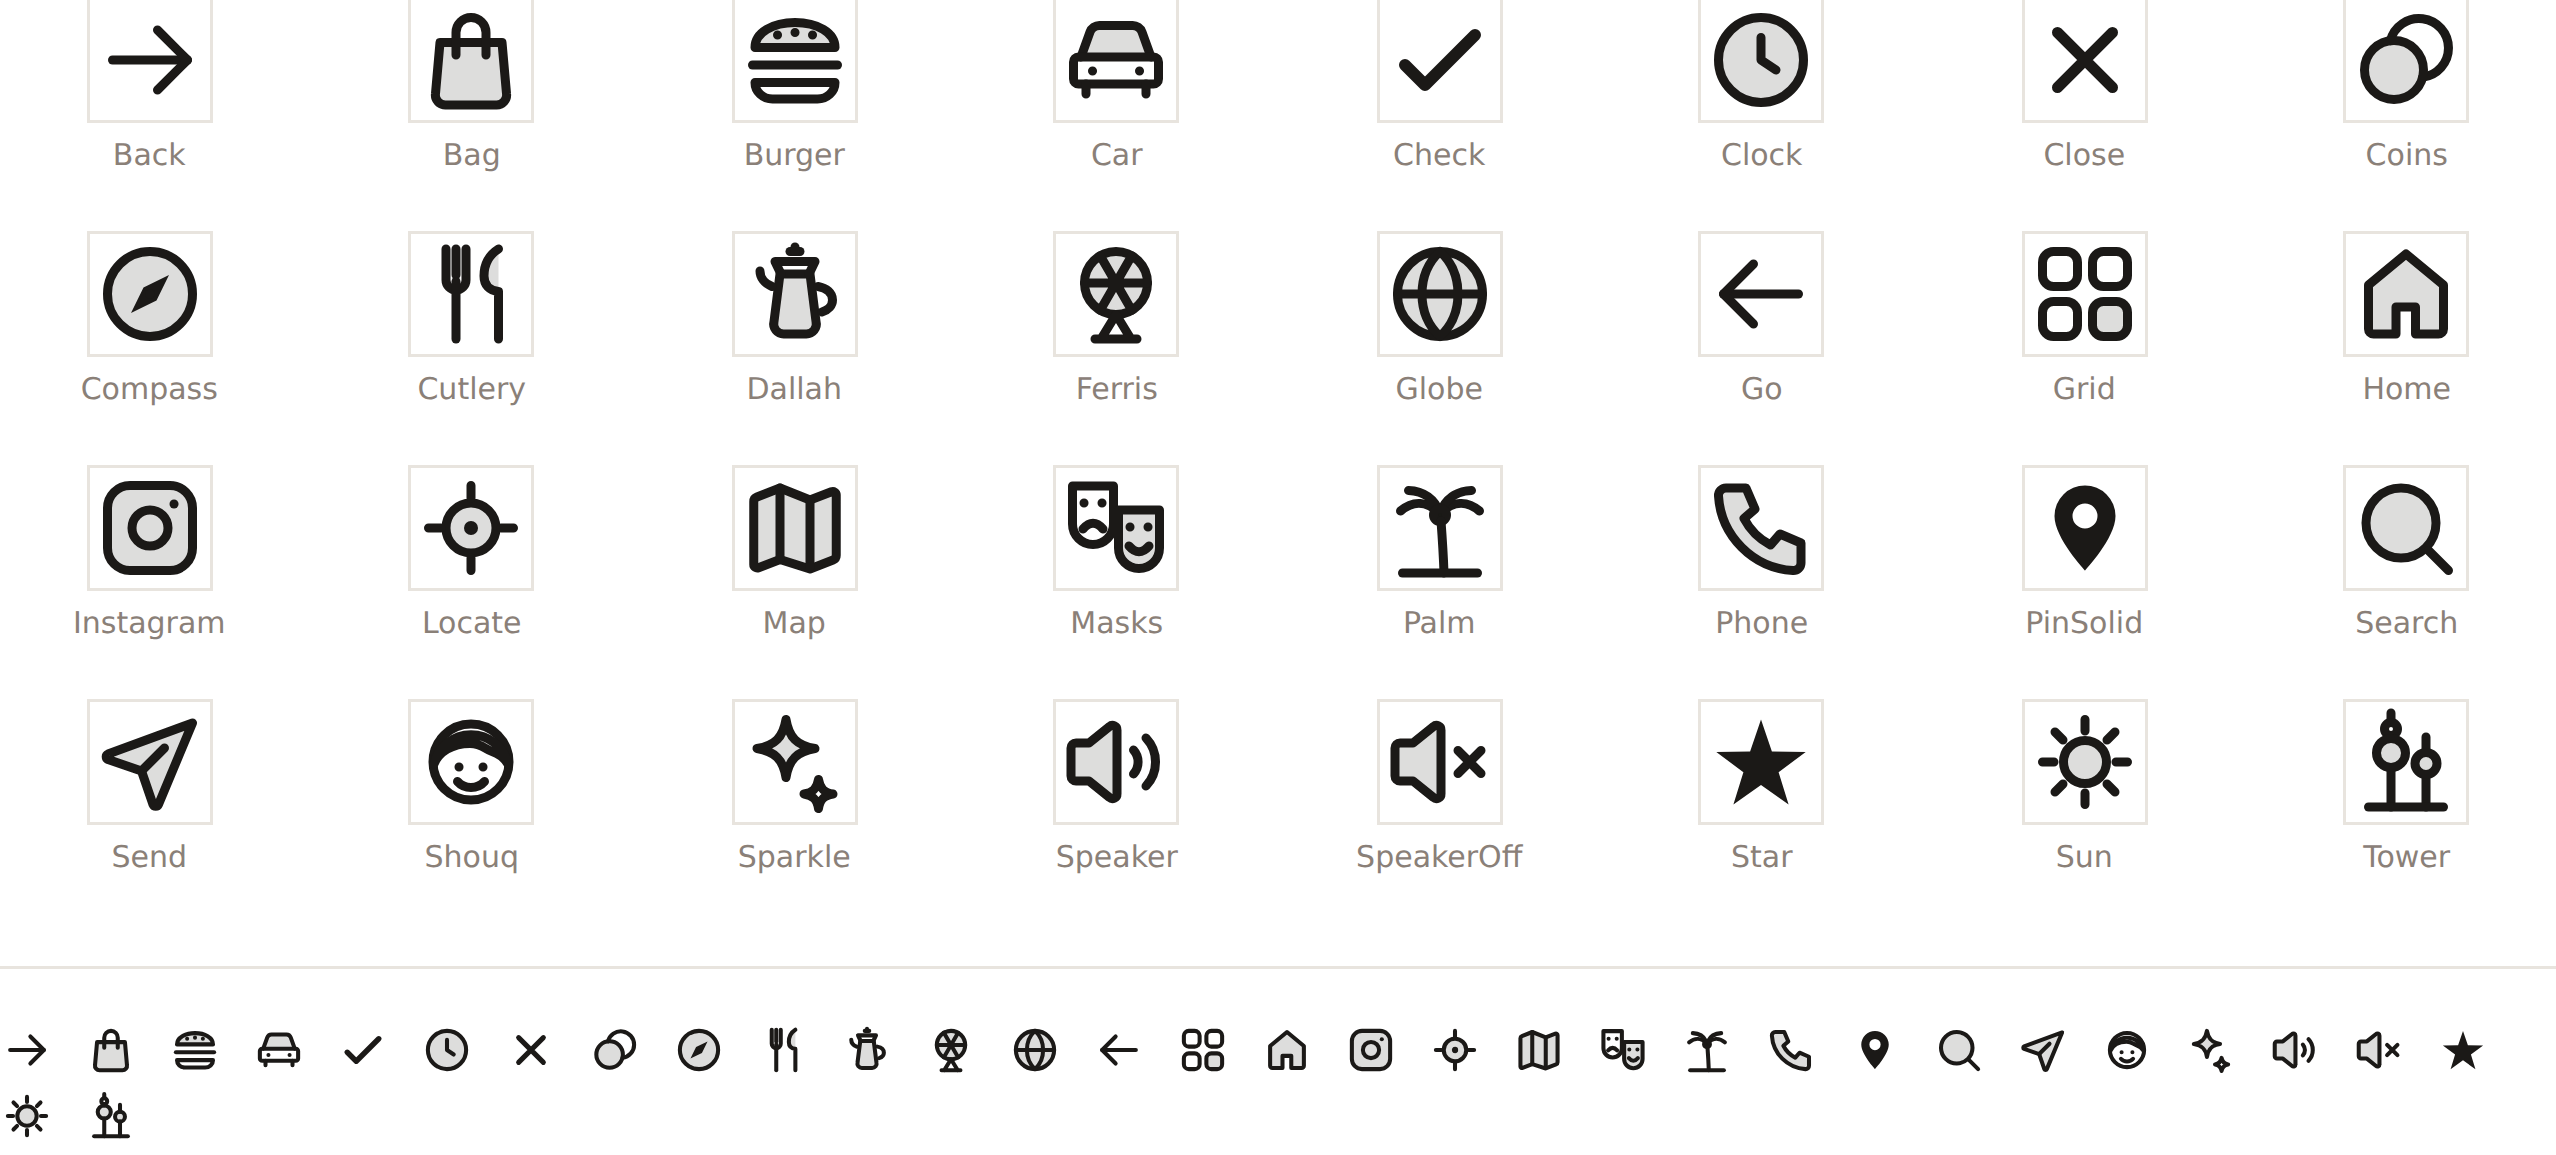
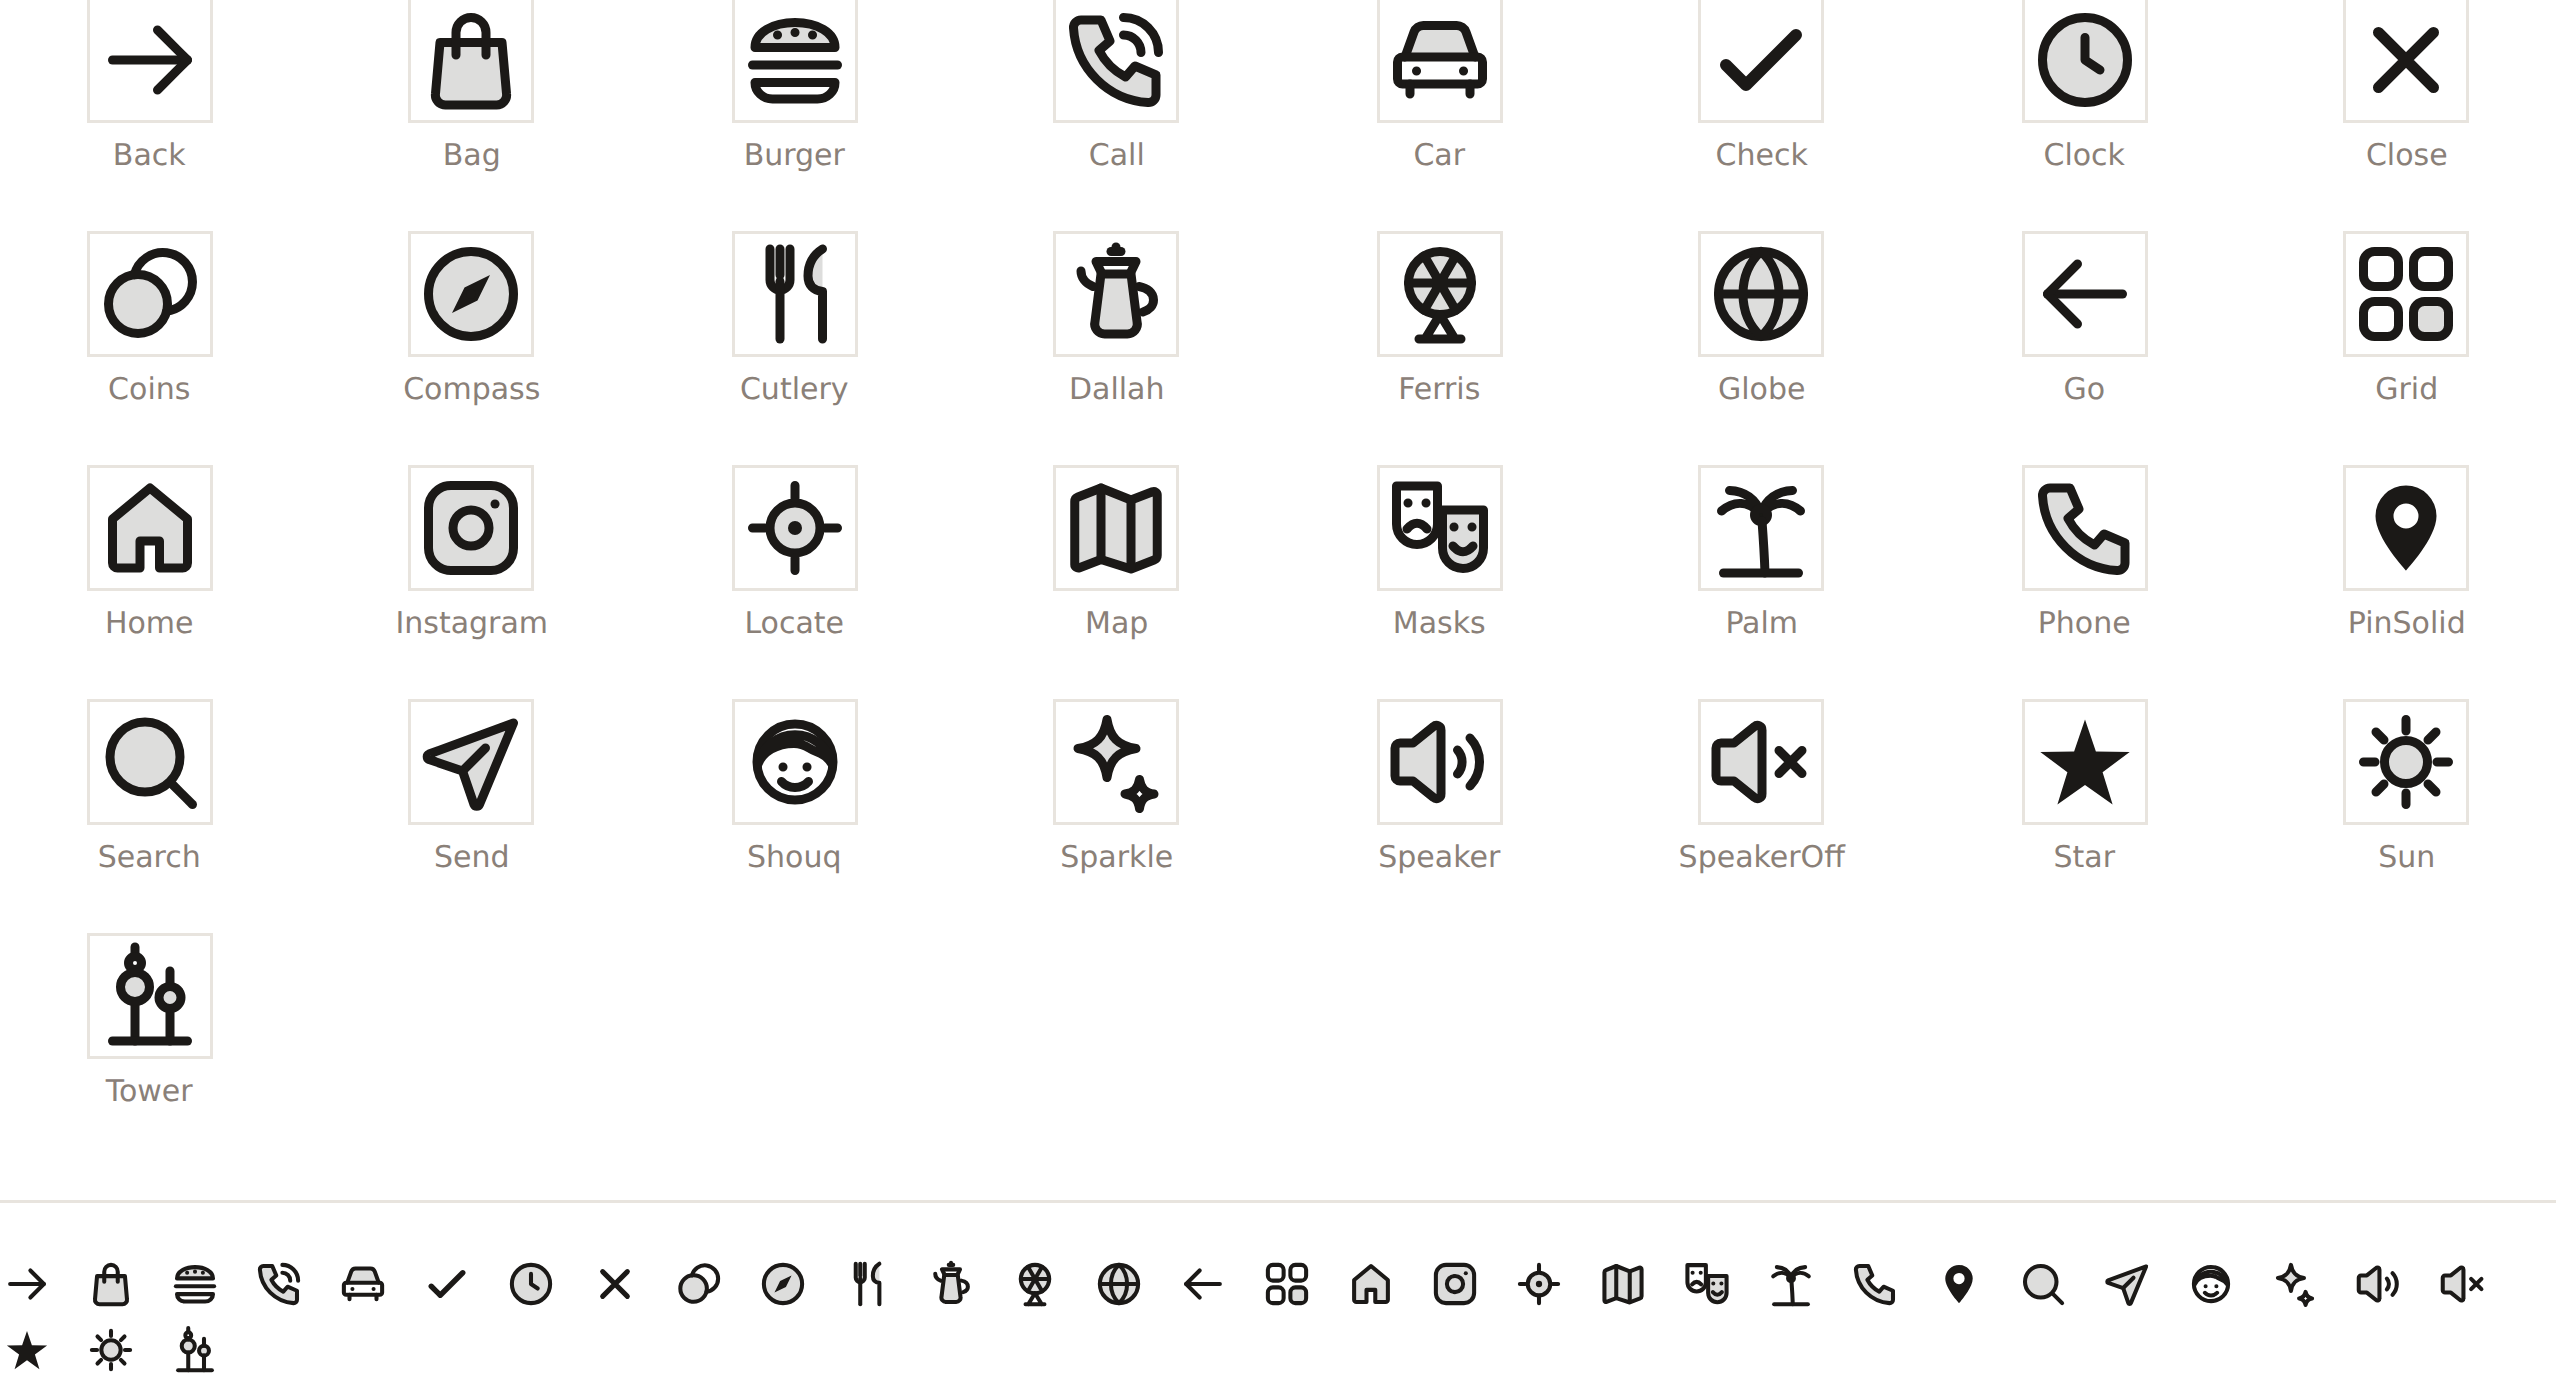
The call button draws a call, and the notes record the day's second batch
«improve call icon»: the small launcher (the one inside /search's query box)
drew شوق's face. That says who you will talk to but not that a tap PLACES A
CALL — beside the text in the box it read as an avatar, not a button with a
consequence. IconCall is IconPhone's handset with two voice arcs in its open
corner; the arcs sound while the call rings or she speaks (`call--live`,
opacity only, nothing moves at rest). Her face stays in the call sheet, where
she is already on the line. Flutter's call button draws the same glyph
(flutter:art); the Figma sheet and docs/icons.png are regenerated.

This reverses a recorded decision — shouq-flow asserted «the launcher shows
her face, not a handset» — so the section is rewritten, not loosened: the
launcher checks are new, the face checks now read the call sheet. The first
sabotage (the old button back) went red AND threw: a bare locator.evaluate on
a missing node waits 30s and kills the file, cancelling every section after
it. Those reads are evaluateAll now; the second sabotage was red on exactly
the three launcher checks with the file running to the end (84/3).

CLAUDE.md: «The second batch of 1 October» — what shipped, the two map bugs
the suites caught, the measured /find contrast, the kuwait-time split, the
ElevenLabs findings (no newer version; speed 1.12 → 1.06; the model left for
the owner's ear), iOS 16, and the call-icon reversal.

test:shouq all suites green; audit:icons, audit:css, lint, figma/flutter art
[…]

diff --git a/src/components/icons.tsx b/src/components/icons.tsx
@@ -82,6 +82,27 @@ export function IconPhone(props: IconProps) {
 }
 
 /**
+ * A call — the handset of IconPhone with two voice arcs where its open corner
+ * is. This is what the small call button draws now. It drew شوق's face, which
+ * says who you will talk to but not that a tap PLACES A CALL: on /search it
+ * sat inside the query box beside the text and read as an avatar, not a
+ * button with a consequence. The face stays where it is the right picture —
+ * the call sheet, where she is already on the line.
+ *
+ * The arcs are `data-part="waves"`, the same way IconShouq exposes its eyes
+ * and mouth, so globals.css can sound them while a call rings or she speaks
+ * and the icon itself stays stateless.
+ */
+export function IconCall(props: IconProps) {
+  return (
+    <svg {...base(props)}>
+      <path {...duo} d="M5 4h4l1.8 4.2-2.2 1.9a12.5 12.5 0 0 0 5.3 5.3l1.9-2.2L20 15v4a1.5 1.5 0 0 1-1.6 1.5C10.4 20 4 13.6 3.5 5.6A1.5 1.5 0 0 1 5 4Z" />
+      <path data-part="waves" d="M13.5 7a3.5 3.5 0 0 1 3.5 3.5M13.5 3.5a7 7 0 0 1 7 7" />
+    </svg>
+  );
+}
+
+/**
  * شوق — the guide behind the call button, as a face.
  *
  * She was five vertical bars: a voice-wave mark, drawn ad-hoc inside

diff --git a/flutter_app/lib/theme/art_index.g.dart b/flutter_app/lib/theme/art_index.g.dart
@@ -10,4 +10,4 @@ const Set<String> kPlaceMarkSlugs = {'abdullah-al-salem-cultural-centre', 'al-fa
 
 const Set<String> kCategoryIconKeys = {'all', 'bag', 'burger', 'coffee', 'cutlery', 'ferris', 'masks', 'palm', 'tower'};
 
-const Set<String> kUiIconNames = {'back', 'bag', 'burger', 'car', 'check', 'clock', 'close', 'coins', 'compass', 'cutlery', 'dallah', 'ferris', 'globe', 'go', 'grid', 'home', 'instagram', 'locate', 'map', 'masks', 'palm', 'phone', 'pinsolid', 'search', 'send', 'shouq', 'sparkle', 'speaker', 'speakeroff', 'star', 'sun', 'tower'};
+const Set<String> kUiIconNames = {'back', 'bag', 'burger', 'call', 'car', 'check', 'clock', 'close', 'coins', 'compass', 'cutlery', 'dallah', 'ferris', 'globe', 'go', 'grid', 'home', 'instagram', 'locate', 'map', 'masks', 'palm', 'phone', 'pinsolid', 'search', 'send', 'shouq', 'sparkle', 'speaker', 'speakeroff', 'star', 'sun', 'tower'};

diff --git a/src/components/ShouqCallButton.tsx b/src/components/ShouqCallButton.tsx
@@ -1,7 +1,7 @@
 "use client";
 
 import { useCallback, useEffect, useState } from "react";
-import { IconShouq } from "@/components/icons";
+import { IconCall } from "@/components/icons";
 import { haptic } from "@/lib/haptics";
 import { primeAudio } from "@/lib/voice";
 import { WAIN_AI_COPY } from "@/lib/wain-ai";
@@ -187,7 +187,7 @@ export default function ShouqCallButton({
           className="size-full object-cover"
         />
       ) : (
-        <IconShouq className={`shouq size-4 ${talking ? "shouq--talking" : ""}`} />
+        <IconCall className={`size-4 ${phase === "ringing" || talking ? "call--live" : ""}`} />
       )}
       {phase === "ringing" && (
         <span

diff --git a/src/app/globals.css b/src/app/globals.css
@@ -561,6 +561,22 @@ h1, h2, h3 {
   animation: shouq-blink 5.4s ease-in-out infinite;
 }
 
+/* IconCall's voice arcs: still at rest, sounding while the call rings or she
+   is speaking — the same «nothing moves unless something is happening» rule as
+   the mouth below. Opacity only, so the handset never twitches. */
+@keyframes call-waves {
+  0%,
+  100% {
+    opacity: 1;
+  }
+  50% {
+    opacity: 0.25;
+  }
+}
+.call--live [data-part="waves"] {
+  animation: call-waves 1.1s ease-in-out infinite;
+}
+
 /* Only while she is actually saying something. A mouth that moves on an idle
    button is a face talking to nobody. */
 .shouq--talking [data-part="mouth"] {

diff --git a/flutter_app/lib/ai/call_button.dart b/flutter_app/lib/ai/call_button.dart
@@ -48,8 +48,10 @@ class ShouqCallButton extends StatelessWidget {
             width: size,
             height: size,
             child: Center(
+              // A call, not her face: the web's IconCall (handset + voice
+              // arcs), so the button says that a tap places one.
               child: WainSvg.icon(
-                'shouq',
+                'call',
                 size: size * 0.5,
                 color: Colors.white,
               ),

diff --git a/CLAUDE.md b/CLAUDE.md
@@ -4425,6 +4425,88 @@ element-visibility waits in an earlier run made while `test:shouq` was also
 driving Chromium concurrently on this machine — re-run alone, clean, which is
 what settled it as resource contention rather than a regression.
 
+## The second batch of 1 October — what shipped, and the traps in it
+
+Asked for in one message: better icons, a calmer and dynamic /find (both
+halves), a better call icon, a sun dial with less text, شوق and her voice
+improved through ElevenLabs, the ElevenLabs version updated, the home page
+behaving like an app, iOS 16 → latest, a better typing animation for سالم,
+and the apps built. One commit each; every new assertion was proved able to
+go red with the build green first. Nothing is deployed.
+
+**The map package that was open first had two real bugs the browser suites
+found, both fixed rather than loosened.** Hovering a pin keeps it apart from
+the bubbles, and `clusterPoints` used to answer «groups, then the ones kept
+apart» — so hovering moved the pin to the end of the overlay, React moved its
+node, and **a node that moves between mousedown and mouseup never receives the
+click**: on a desktop the first click on a pin stopped opening its place. The
+answer is in input order now. And the live map dropped pins outside the view,
+but a pan only re-projects when it ends, so a dropped pin stayed missing while
+it was dragged back in; the frame's overflow clips them instead. The +2.3K
+seen in `app/layout` was a re-split (the queue module moved chunks); the real
+growth on /about was 883 B for `error.tsx` and ~830 B besides.
+
+**/find is lighter and knows the time.** Scrims 40→75→90% became 10→40→65%;
+the heading patches, the red glow and shimmer round the call button and the
+amber glow under «أو» are gone. Text carries itself with `text-on-photo` (a
+shadow on the letters) and an ellipse of shade under the words only — **and
+that shade was measured, not judged**: each line's contrast against the
+brightest tenth of the photo behind it, letters hidden, text shadow not
+counted. Without the ellipse the headline was 1.4:1. `lib/find-moment.ts`
+picks the opener by Kuwait's hour and the three examples by part of day and
+season — no sea and no walk by day in summer, «بحر عقب المغرب» on a summer
+evening — and the static HTML keeps today's line word for word, which the
+unit test holds to `WAIN_AI_COPY.greeting`. The Flutter port replays all 288
+moments from the web.
+
+**`kuwaitHour` and friends live in `lib/kuwait-time.ts` now** (re-exported by
+hangout.ts and voice-lines.ts, so no caller changed): importing three lines
+of arithmetic from hangout.ts carried the planner into /find, +1.7K gzipped
+for nothing. The general form of `place-kit`'s lesson: **a small helper in a
+big module is a big import.**
+
+**سالم types like someone typing**, on the site and — for the first time — in
+the app, which had no indicator at all. The app's chat test needed an
+in-memory socket: real socket IO does not run inside a widget test's fake
+clock, and the 45s bound has to be driven by it.
+
+**The sun dial says two things**: «إلى وين؟» and «ابدأ». «اضغط ودوّر حواليك» had
+been untrue since the dial stopped ranking places around you. Where the tap
+leads is in the link's name. **Installed, the home page offers search once** —
+the pill under the dial is `standalone:hidden` because the tab bar has a
+search tab; the Flutter home drops it outright. Manifest and Android are
+portrait. Most of the app physics (no tap highlight, a felt press, no
+selectable chrome) was already there.
+
+**The call icon is a call**: `IconCall`, the handset with two voice arcs that
+sound while a call rings or she speaks. Her face (IconShouq) stays in the
+call sheet. This REVERSES a recorded decision — shouq-flow asserted «the
+launcher shows her face, not a handset» — on request; the reason it lost is
+that inside the query box the face read as an avatar beside the text, not as
+a button with a consequence.
+
+**All 52 places have their own icon.** The eight that drew their category's
+glyph got drawings (the blind-recognition candidates). PlaceIcon's fallback no
+longer reads the catalogue — it saved nothing measurable today, because those
+pages carry the catalogue by other roads, but it was the one lookup that put
+all 52 records behind every pin.
+
+**ElevenLabs: there was no newer version.** The widget's 0.18.3 and the
+Flutter SDK's 0.6.1 are each registry's latest, checked on the day. Voice:
+`tts.speed` 1.12 → 1.06, closing the one-number drift from the clip table that
+the شوق section records, and «قل لي» → «قول لي» in her first message. Version
+`agtvrsn_5501m3w14aamee9thg6g2jakdmak`; suite 45/50 before, 49/50 after, no new
+2/2 failure — and a speed cannot move a text-judged suite, so the 4 is the
+suite's own movement, not a gain. **The TTS model was NOT switched**: the
+owner has `docs/voice-sample/shouq-talya-{flash25,v4}-compare.mp3`, the same
+sentences on the live model and on eleven_v4, because nothing published says
+how v4 does Arabic and latency is not in a file.
+
+**iOS 16 is the floor** in both apps: every Xcode configuration and the
+Capacitor SPM platforms line (`patch-ios-project.mjs`, raise-only, read back;
+the template ships 15 in four places), the Flutter Runner and
+`MinimumOSVersion`. «Latest» is CI's `macos-latest` SDK. No Xcode here.
+
 ## Style
 
 No redesigns beyond what is asked for. Fix the current theme. Comments in this codebase explain *why*

diff --git a/docs/figma/README.md b/docs/figma/README.md
@@ -6,7 +6,7 @@ change to `src/components/icons.tsx` or `src/components/PlaceIcon.tsx`;
 
 | Sheet | Contents | Grid |
 |---|---|---|
-| `wain-icons-ui.svg` | 32 UI icons | 24 |
+| `wain-icons-ui.svg` | 33 UI icons | 24 |
 | `wain-icons-places.svg` | 52 bespoke place marks of 52 places | 48 |
 
 ## Getting them into Figma as components
